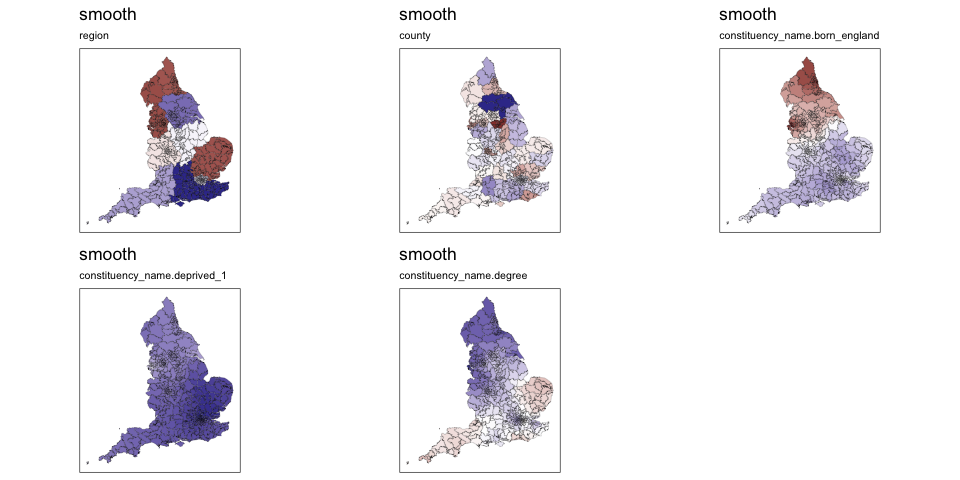
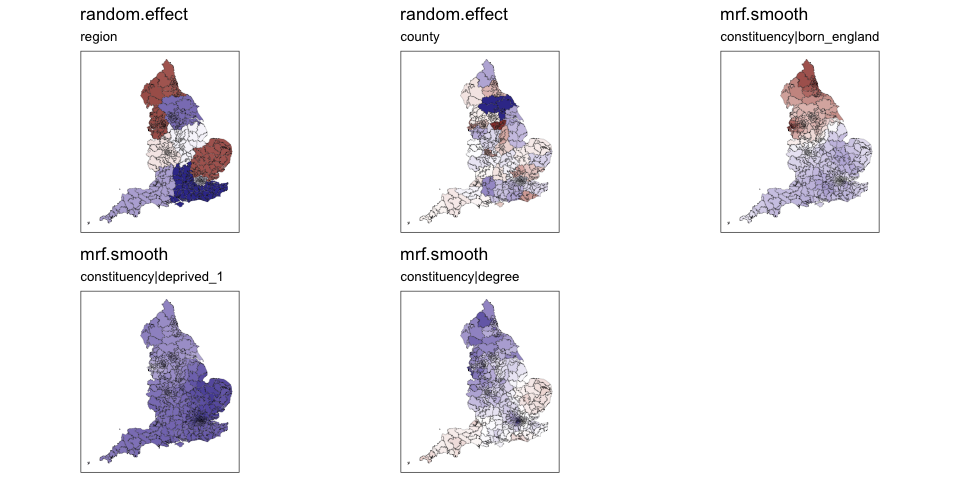
replace constituency_name with constituency

diff --git a/README.md b/README.md
@@ -174,6 +174,7 @@ uk_admins <- elect_results |>
          county = factor(county),
          constituency_name = factor(constituency_name),
          geometry = geometry) |> 
+  rename(constituency = constituency_name) |> 
   st_as_sf()
 ```
 
@@ -193,9 +194,9 @@ uk_admins |>
   makemap(uk_admins, county),
 
 uk_admins |> 
-  make_cont_k_islands(unit = constituency_name,
+  make_cont_k_islands(unit = constituency,
                     link_islands_k = 1) |> 
-  makemap(uk_admins, constituency_name),
+  makemap(uk_admins, constituency),
 
 ncol=3
 )
@@ -246,9 +247,9 @@ In the following example, we link island constituencies to their nearest
 ``` r
 
 uk_admins |> 
-  make_cont_k_islands(unit = constituency_name,
+  make_cont_k_islands(unit = constituency,
                     link_islands_k = 3) |> 
-  makemap(uk_admins, constituency_name)
+  makemap(uk_admins, constituency)
 ```
 
 <img src="man/figures/README-unnamed-chunk-11-1.png" width="100%" />
@@ -260,7 +261,7 @@ Using the `find_neighbours` function…
 
 find_neighbours(
   uk_admins |> 
-  make_cont_k_islands(unit = constituency_name,
+  make_cont_k_islands(unit = constituency,
                     link_islands_k = 3),
   "Isle Of Wight"
 )
@@ -273,7 +274,7 @@ I only wanted Gosport. So I will remove the other two…
 
 find_neighbours(
 uk_admins |> 
-  make_cont_k_islands(unit = constituency_name,
+  make_cont_k_islands(unit = constituency,
                     link_islands_k = 3) |> 
   manual_unlink_name("Isle Of Wight","New Forest East") |> 
   manual_unlink_name("Isle Of Wight","New Forest West"),
@@ -294,14 +295,14 @@ First use the pre-functions:
 
 nb_england <- uk_admins |> 
   filter(country %in% "England") |> 
-  make_cont_k_islands(unit = constituency_name,
+  make_cont_k_islands(unit = constituency,
                     link_islands_k = 3) |> 
   manual_unlink_name("Isle Of Wight","New Forest East") |> 
   manual_unlink_name("Isle Of Wight","New Forest West")
   
 df_england <- uk_admins |> 
   filter(country %in% "England") |> 
-  mutate(constituency_name = factor(constituency_name),
+  mutate(constituency = factor(constituency),
          region = factor(region),
          county = factor(county))
 ```
@@ -316,9 +317,9 @@ model <- gam(con_17 ~
                degree + 
                s(region, bs="re") +
                s(county, bs="re") +
-               s(constituency_name, by=born_england, bs='mrf', xt=list(nb=nb_england),k=50) +
-               s(constituency_name, by=deprived_1, bs='mrf', xt=list(nb=nb_england),k=50) +
-               s(constituency_name, by=degree, bs='mrf', xt=list(nb=nb_england),k=50),
+               s(constituency, by=born_england, bs='mrf', xt=list(nb=nb_england),k=50) +
+               s(constituency, by=deprived_1, bs='mrf', xt=list(nb=nb_england),k=50) +
+               s(constituency, by=degree, bs='mrf', xt=list(nb=nb_england),k=50),
              data=df_england, method="REML")
 ```
 
@@ -339,34 +340,48 @@ head(output[,1:10])
 #> Dimension:     XY
 #> Bounding box:  xmin: 368282 ymin: 101579.6 xmax: 532401.3 ymax: 393553.9
 #> Projected CRS: OSGB36 / British National Grid
-#>   smooth_region smooth_county smooth_constituency_name.born_england
-#> 1  6.073839e-04      1.706711                            0.14626343
-#> 2 -5.774813e-05     -2.703870                            0.01976628
-#> 3 -4.414490e-04     -1.505832                           -0.14059956
-#> 4  2.417885e-05      1.090575                           -0.02753703
-#> 5  6.073839e-04      2.668064                            0.07881616
-#> 6  2.417885e-05     -2.382387                           -0.03074957
-#>   smooth_constituency_name.deprived_1 smooth_constituency_name.degree
-#> 1                           0.8686497                      0.07696118
-#> 2                           0.5955433                      0.63881553
-#> 3                           0.3872410                      0.69905686
-#> 4                           0.5640869                      0.43623841
-#> 5                           0.7893368                     -0.21499099
-#> 6                           0.5640568                      0.40074433
-#>   fixed_born_england fixed_deprived_1 fixed_degree smoothse_region
-#> 1            1.25084                0            0      0.03766500
-#> 2            1.25084                0            0      0.03766566
-#> 3            1.25084                0            0      0.03766621
-#> 4            1.25084                0            0      0.03766501
-#> 5            1.25084                0            0      0.03766500
-#> 6            1.25084                0            0      0.03766501
-#>   smoothse_county                       geometry
-#> 1        2.508186 MULTIPOLYGON (((485408.1 15...
-#> 2        2.365326 MULTIPOLYGON (((406519.5 30...
-#> 3        2.358090 MULTIPOLYGON (((379104.1 39...
-#> 4        2.264675 MULTIPOLYGON (((444868.5 35...
-#> 5        2.513013 MULTIPOLYGON (((506643.3 12...
-#> 6        2.596432 MULTIPOLYGON (((449576.1 36...
+#>   random.effect.region random.effect.county
+#> 1         6.073839e-04             1.706711
+#> 2        -5.774813e-05            -2.703870
+#> 3        -4.414490e-04            -1.505832
+#> 4         2.417885e-05             1.090575
+#> 5         6.073839e-04             2.668064
+#> 6         2.417885e-05            -2.382387
+#>   mrf.smooth.constituency|born_england mrf.smooth.constituency|deprived_1
+#> 1                            11.629070                           28.52421
+#> 2                             1.872756                           19.69007
+#> 3                           -12.234466                           11.23745
+#> 4                            -2.637204                           17.71635
+#> 5                             7.127869                           25.82921
+#> 6                            -2.938126                           18.32714
+#>   mrf.smooth.constituency|degree se.random.effect.region
+#> 1                       1.067502              0.03766500
+#> 2                       6.371619              0.03766566
+#> 3                      19.993120              0.03766621
+#> 4                       4.072850              0.03766501
+#> 5                      -4.036583              0.03766500
+#> 6                       2.438712              0.03766501
+#>   se.random.effect.county se.mrf.smooth.constituency|born_england
+#> 1                2.508186                                3.901682
+#> 2                2.365326                                3.417439
+#> 3                2.358090                                4.065510
+#> 4                2.264675                                3.712115
+#> 5                2.513013                                5.573187
+#> 6                2.596432                                4.025844
+#>   se.mrf.smooth.constituency|deprived_1 se.mrf.smooth.constituency|degree
+#> 1                              11.64201                          2.738666
+#> 2                              11.78601                          1.792209
+#> 3                              10.57810                          4.511394
+#> 4                              11.17196                          1.572283
+#> 5                              11.84416                          3.871403
+#> 6                              11.61155                          1.121780
+#>                         geometry
+#> 1 MULTIPOLYGON (((485408.1 15...
+#> 2 MULTIPOLYGON (((406519.5 30...
+#> 3 MULTIPOLYGON (((379104.1 39...
+#> 4 MULTIPOLYGON (((444868.5 35...
+#> 5 MULTIPOLYGON (((506643.3 12...
+#> 6 MULTIPOLYGON (((449576.1 36...
 ```
 
 And a list containing plots of the smooths:
